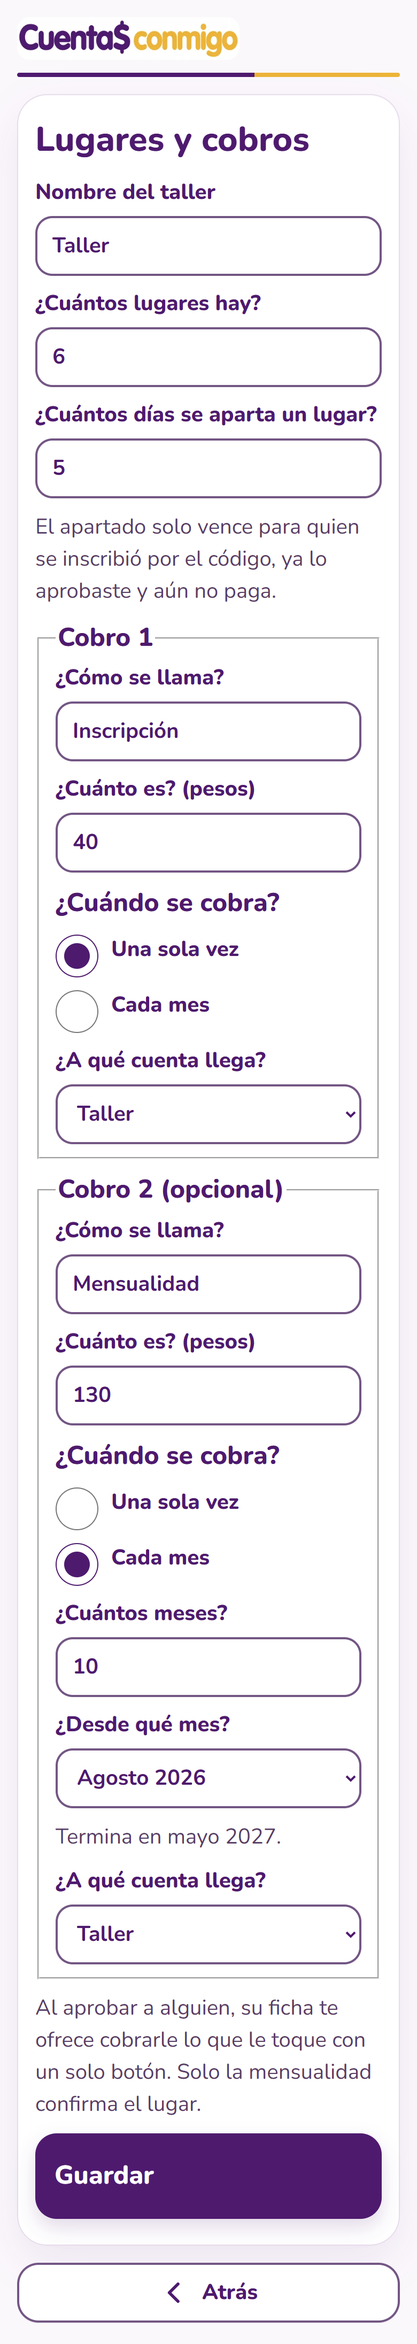
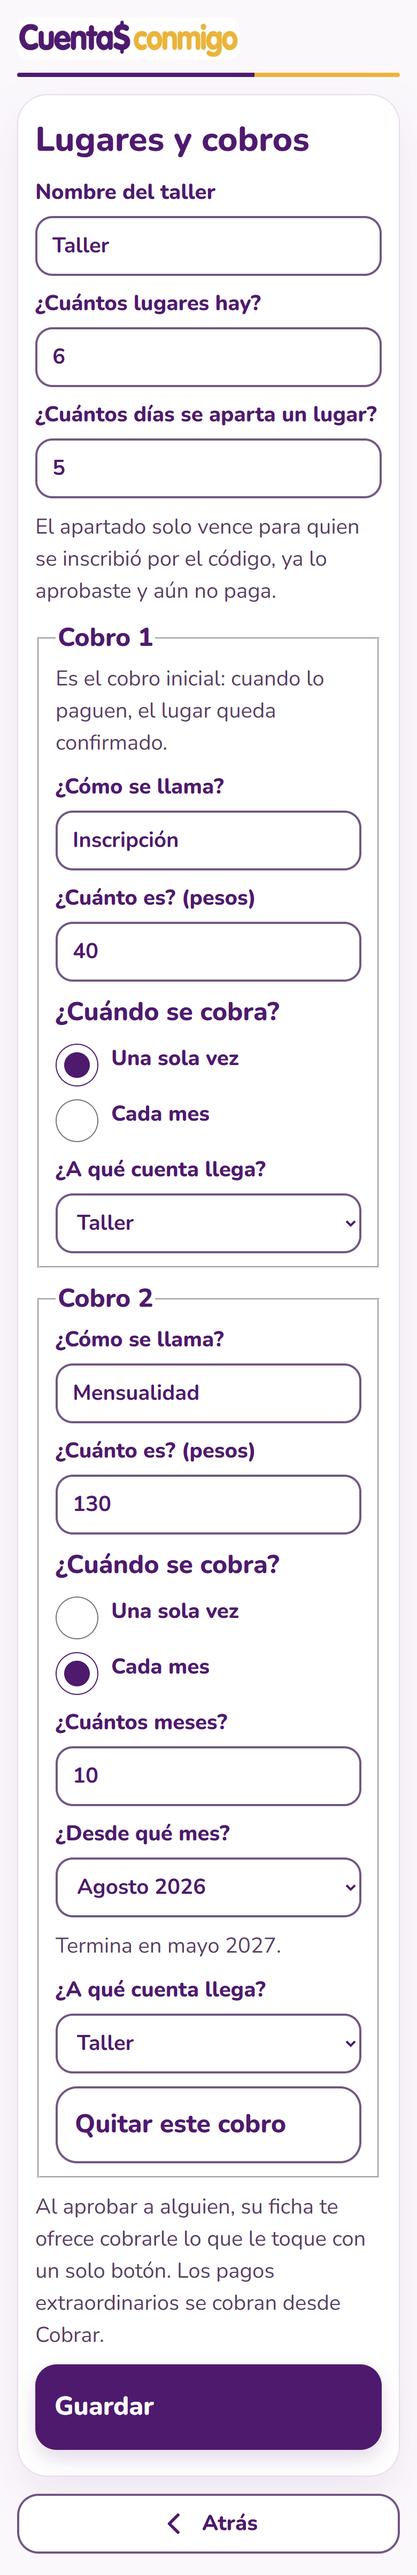
El cobro inicial confirma el lugar, cobro 2 con 'Añadir otro cobro' y cobros extraordinarios desde Cobrar

diff --git a/src/screens3.tsx b/src/screens3.tsx
@@ -108,7 +108,7 @@ export function SeatDetail({ project, people, charges, accounts, personId, busy,
   const due = (state === 'held' || state === 'confirmed' || state === 'overdue')
     ? duePlans(project.plans, person.id, charges, month).filter((d) => accounts.some((a) => a.id === d.plan.accountId)).slice(0, 2)
     : [];
-  const feeCharge = charges.find((c) => c.personId === person.id && c.month === month && c.confirmsPlace);
+  const feeCharge = charges.find((c) => c.personId === person.id && c.month === month);
   return (
     <section className="stack">
       <WhoLine name={person.name} person={person} />
@@ -129,7 +129,7 @@ export function SeatDetail({ project, people, charges, accounts, personId, busy,
           icon={<IcoPhone />}
           label={`Cobrarle ${money(d.plan.amount)}`}
           hint={d.plan.kind === 'ONCE' ? `${d.plan.concept} (una sola vez)` : `${d.plan.concept} de ${monthName(month).toLowerCase()}, mes ${d.nth} de ${d.total}`}
-          onClick={() => onCreateCharge(person.id, d.plan.concept, d.plan.amount, d.plan.accountId, d.plan.kind === 'MONTHLY')}
+          onClick={() => onCreateCharge(person.id, d.plan.concept, d.plan.amount, d.plan.accountId, d.confirms)}
         />
       ))}
       {feeCharge && !due.length ? (
@@ -214,14 +214,15 @@ function toSlot(p: Plan): Slot {
 export function PlacesSettings({ project, accounts, busy, formError, onSaveProject }: StageProps) {
   const usable = accounts.filter((a) => ready(a));
   const firstAccount = usable[0]?.id ?? '';
-  // Nothing saved yet: suggest the usual case (a one-time enrolment and a monthly fee for the school cycle).
+  // Nothing saved yet: suggest the usual first charge (a one-time enrolment). A second one is added on request.
   const initial: Slot[] = project?.plans.length
     ? [...project.plans.map(toSlot), emptySlot(firstAccount)].slice(0, MAX_PLANS)
     : [
         { kind: 'ONCE', concept: 'Inscripción', amount: '40', accountId: firstAccount, start: cycleStart(new Date()), months: '10' },
-        { kind: 'MONTHLY', concept: 'Mensualidad', amount: '130', accountId: firstAccount, start: cycleStart(new Date()), months: '10' },
+        emptySlot(firstAccount),
       ];
   const [slots, setSlots] = useState<Slot[]>(initial);
+  const [shown, setShown] = useState(project?.plans.length ? Math.max(1, project.plans.length) : 1);
   const [error, setError] = useState('');
   const set = (i: number, patch: Partial<Slot>) => setSlots(slots.map((s, j) => (j === i ? { ...s, ...patch } : s)));
   const base = cycleStart(new Date());
@@ -231,7 +232,7 @@ export function PlacesSettings({ project, accounts, busy, formError, onSaveProje
     e.preventDefault();
     const d = new FormData(e.currentTarget);
     const plans: Plan[] = [];
-    for (let i = 0; i < slots.length; i++) {
+    for (let i = 0; i < shown; i++) {
       const s = slots[i];
       const amount = parseAmount(s.amount);
       if (!(amount > 0)) continue; // an empty slot is simply not used
@@ -263,9 +264,10 @@ export function PlacesSettings({ project, accounts, busy, formError, onSaveProje
         <Field label="¿Cuántos días se aparta un lugar?"><input name="hold" required inputMode="numeric" defaultValue={String(project?.holdDays ?? 5)} /></Field>
         <p className="hint">El apartado solo vence para quien se inscribió por el código, ya lo aprobaste y aún no paga.</p>
 
-        {slots.map((s, i) => (
+        {slots.slice(0, shown).map((s, i) => (
           <fieldset key={i} className="stack plan">
-            <legend className="who-line">Cobro {i + 1}{i > 0 ? ' (opcional)' : ''}</legend>
+            <legend className="who-line">Cobro {i + 1}</legend>
+            {i === 0 ? <p className="hint">Es el cobro inicial: cuando lo paguen, el lugar queda confirmado.</p> : null}
             <Field label="¿Cómo se llama?"><input value={s.concept} onChange={(e) => set(i, { concept: e.target.value })} autoComplete="off" placeholder={s.kind === 'ONCE' ? 'Inscripción' : 'Mensualidad'} /></Field>
             <Field label="¿Cuánto es? (pesos)"><input value={s.amount} onChange={(e) => set(i, { amount: e.target.value })} inputMode="decimal" placeholder="Déjalo vacío si no lo usas" /></Field>
             <p className="who-line">¿Cuándo se cobra?</p>
@@ -288,9 +290,22 @@ export function PlacesSettings({ project, accounts, busy, formError, onSaveProje
                 {usable.map((a) => <option key={a.id} value={a.id}>{a.alias}</option>)}
               </select>
             </Field>
+            {i > 0 ? <Choice label="Quitar este cobro" onClick={() => { set(i, { amount: '' }); setShown(i); }} /> : null}
           </fieldset>
         ))}
-        <p className="hint">Al aprobar a alguien, su ficha te ofrece cobrarle lo que le toque con un solo botón. Solo la mensualidad confirma el lugar.</p>
+        {shown < MAX_PLANS ? (
+          <Choice
+            icon={<IcoCash />}
+            label="Añadir otro cobro"
+            hint="Por ejemplo, la mensualidad"
+            onClick={() => {
+              // Suggest the usual second charge: monthly for the school cycle.
+              if (!slots[shown].amount) set(shown, { kind: 'MONTHLY', concept: 'Mensualidad', amount: '130', months: '10', accountId: slots[shown].accountId || firstAccount });
+              setShown(shown + 1);
+            }}
+          />
+        ) : null}
+        <p className="hint">Al aprobar a alguien, su ficha te ofrece cobrarle lo que le toque con un solo botón. Los pagos extraordinarios se cobran desde Cobrar.</p>
         <Choice primary type="submit" label={busy ? busyLabel : 'Guardar'} />
       </form>
     </section>

diff --git a/src/screens.tsx b/src/screens.tsx
@@ -9,7 +9,7 @@ import { destinations, folioOf, payCardSvg, payText, type Dest } from './comprob
 import { PictureSend } from './Receipt';
 import { DangerZone, More, ReportView } from './screens2';
 import { PlacesHub, PlacesSettings, RegQr, SeatDetail, Seats } from './screens3';
-import type { Plan } from './plans';
+import { duePlans, type Plan } from './plans';
 import { canCharge, placesOn, toApprove, waitlisted } from './places';
 
 export type StageProps = {
@@ -220,13 +220,13 @@ function Who({ people, charges, onOpenPerson, onView, page }: StageProps & { pag
   );
 }
 
-function PersonCharges({ people, charges, onView, personId, page }: StageProps & { personId: string; page: number }) {
+function PersonCharges({ people, charges, accounts, project, onCreateCharge, onView, personId, page }: StageProps & { personId: string; page: number }) {
   const person = findPerson(people, personId);
   if (!person) return <Missing onHome={() => onView({ id: 'home' })} />;
   const month = thisMonth();
   const mine = charges.filter((c) => c.personId === personId && c.month === month);
   type Row = { key: string; node: ReactNode };
-  const rows: Row[] = mine.map((c) => ({
+  const chargeRow = (c: Chg): Row => ({
     key: c.id,
     node: (
       <button type="button" className="person" onClick={() => onView(chargeKind(c) === 'paid' ? { id: 'paid', chargeId: c.id } : { id: 'charge', chargeId: c.id })}>
@@ -235,11 +235,29 @@ function PersonCharges({ people, charges, onView, personId, page }: StageProps &
         <Status kind={chargeKind(c)}>{chargeWords(c)}</Status>
       </button>
     ),
-  }));
-  rows.push({
-    key: 'new',
-    node: <Choice icon={<IcoCash />} label="Crear otro cobro" hint="Un monto libre" onClick={() => onView({ id: 'new-charge', personId })} />,
   });
+  // Order: what is waiting for payment, what the project charges (set in its settings), an extraordinary one, then what is already paid.
+  const due = duePlans(project?.plans ?? [], personId, charges, month).filter((d) => accounts.some((x) => x.id === d.plan.accountId));
+  const rows: Row[] = [
+    ...mine.filter((c) => chargeKind(c) !== 'paid').map(chargeRow),
+    ...due.map((d): Row => ({
+      key: 'plan-' + d.plan.id,
+      node: (
+        <Choice
+          primary={!mine.some((c) => chargeKind(c) !== 'paid') && due[0] === d}
+          icon={<IcoCash />}
+          label={`Cobrar ${money(d.plan.amount)}`}
+          hint={d.plan.kind === 'ONCE' ? `${d.plan.concept} (una sola vez)` : `${d.plan.concept}, mes ${d.nth} de ${d.total}`}
+          onClick={() => onCreateCharge(personId, d.plan.concept, d.plan.amount, d.plan.accountId, d.confirms)}
+        />
+      ),
+    })),
+    {
+      key: 'extra',
+      node: <Choice icon={<IcoCash />} label="Cobro extraordinario" hint="Por ejemplo, una cooperación" onClick={() => onView({ id: 'new-charge', personId })} />,
+    },
+    ...mine.filter((c) => chargeKind(c) === 'paid').map(chargeRow),
+  ];
   const slice = pageOf(rows, page);
   return (
     <section className="stack">
@@ -511,7 +529,7 @@ function AddAccount({ busy, formError, onAddAccount }: StageProps) {
   );
 }
 
-function NewCharge({ people, accounts, personId, project, busy, formError, onCreateCharge, onView }: StageProps & { personId: string }) {
+function NewCharge({ people, accounts, personId, busy, formError, onCreateCharge, onView }: StageProps & { personId: string }) {
   const person = findPerson(people, personId);
   if (!person) return <Missing onHome={() => onView({ id: 'home' })} />;
   if (!accounts.length) {
@@ -528,21 +546,19 @@ function NewCharge({ people, accounts, personId, project, busy, formError, onCre
     e.preventDefault();
     const data = new FormData(e.currentTarget);
     const accountId = only ? only.id : String(data.get('account') || '');
-    onCreateCharge(person.id, String(data.get('concept') || ''), parseAmount(String(data.get('amount') || '')), accountId, data.get('monthly') === 'on');
+    onCreateCharge(person.id, String(data.get('concept') || ''), parseAmount(String(data.get('amount') || '')), accountId, false); // an extraordinary charge never confirms a place
   };
   return (
     <section className="stack">
       <WhoLine name={person.name} person={person} />
-      <h1>Nuevo cobro</h1>
+      <h1>Cobro extraordinario</h1>
+      <p className="lead">Para algo que no es el cobro de siempre, por ejemplo una cooperación para un evento.</p>
       <form className="stack" onSubmit={submit}>
         {formError ? <Alert>{formError}</Alert> : null}
-        <Field label="¿De qué es el cobro?"><input name="concept" placeholder="Cuota" autoComplete="off" /></Field>
+        <Field label="¿Para qué es?"><input name="concept" placeholder="Cooperación para el cumpleaños" autoComplete="off" required /></Field>
         <Field label="¿Cuánto?">
           <input name="amount" required inputMode="decimal" autoComplete="off" placeholder="0.00" />
         </Field>
-        {placesOn(project) ? (
-          <label className="check"><input type="checkbox" name="monthly" defaultChecked /><span>Es la mensualidad (confirma el lugar)</span></label>
-        ) : null}
         {only ? <p className="lead">El dinero llega a {only.alias}.</p> : (
           <Field label="¿A qué cuenta llega?">
             <select name="account" required defaultValue="">

diff --git a/src/plans.ts b/src/plans.ts
@@ -58,6 +58,8 @@ export function legacyPlan(amount: number | null | undefined, concept: string | 
 
 export interface Due {
   plan: Plan;
+  /** The first plan is the initial charge: paying it confirms the place. */
+  confirms: boolean;
   /** For recurring plans: which month of the cycle this is ("4 de 10"). */
   nth?: number;
   total?: number;
@@ -78,11 +80,12 @@ export function duePlans(plans: Plan[], personId: string, charges: Chg[], month:
   const mine = charges.filter((c) => c.personId === personId);
   const out: Due[] = [];
   for (const plan of plans) {
+    const confirms = plans[0]?.id === plan.id;
     if (plan.kind === 'ONCE') {
-      if (!mine.some((c) => c.concept === plan.concept)) out.push({ plan });
+      if (!mine.some((c) => c.concept === plan.concept)) out.push({ plan, confirms });
     } else {
       const nth = cycleMonth(plan, month);
-      if (nth && !mine.some((c) => c.concept === plan.concept && c.month === month)) out.push({ plan, nth, total: plan.months });
+      if (nth && !mine.some((c) => c.concept === plan.concept && c.month === month)) out.push({ plan, confirms, nth, total: plan.months });
     }
   }
   return out;

diff --git a/src/App.tsx b/src/App.tsx
@@ -214,15 +214,8 @@ export default function App({ signOut }: { signOut?: () => void }) {
   }
 
   function openPerson(personId: string) {
-    const month = thisMonth();
-    const mine = charges.filter((c) => c.personId === personId && c.month === month);
-    if (mine.length === 0) go({ id: 'new-charge', personId });
-    else if (mine.length === 1) {
-      const c = mine[0];
-      if (chargeKind(c) === 'paid') go({ id: 'paid', chargeId: c.id });
-      else if (chargeKind(c) === 'wait') go({ id: 'wait', chargeId: c.id });
-      else go({ id: 'charge', chargeId: c.id });
-    } else go({ id: 'person', personId, page: 0 });
+    // Always show the person's page: what the project charges, an extraordinary charge, and what is waiting.
+    go({ id: 'person', personId, page: 0 });
   }
 
   return (

diff --git a/tests/logic.test.ts b/tests/logic.test.ts
@@ -187,3 +187,13 @@ test('plans: a one-time enrolment and a monthly fee for the 10 months of the sch
   assert.equal(legacyPlan(130, null, 'x', new Date(2026, 10, 1))[0].months, 10);
   assert.deepEqual(legacyPlan(0, null, 'x', new Date()), []);
 });
+
+test('plans: only the first (initial) charge confirms the place', async () => {
+  const { duePlans } = await import('../src/plans.ts');
+  const plans = [
+    { id: 'a', kind: 'ONCE' as const, concept: 'Inscripción', amount: 40, accountId: 'x' },
+    { id: 'b', kind: 'MONTHLY' as const, concept: 'Mensualidad', amount: 130, accountId: 'x', start: '2026-08', months: 10 },
+  ];
+  const due = duePlans(plans, 'p', [], '2026-11');
+  assert.deepEqual(due.map((d) => [d.plan.id, d.confirms]), [['a', true], ['b', false]]);
+});

diff --git a/README.md b/README.md
@@ -79,7 +79,7 @@ El inicio de un proyecto es deliberadamente corto: el dato de **cuánto se ha co
 ## Cómo funciona un cobro
 
 1. Quien cobra registra la **cuenta que recibe** (nombre legal del titular y CLABE). Pey la activa con Banxico en hasta 5 días hábiles; mientras tanto solo se puede cobrar en efectivo.
-2. Elige a la persona (se reconoce por su foto o dibujo) y crea el cobro (monto libre y concepto).
+2. Elige a la persona (se reconoce por su foto o dibujo). Su página ofrece lo que ya está esperando pago, **los cobros que configuraste** (por ejemplo "Cobrar $130, Mensualidad, mes 4 de 10") y **"Cobro extraordinario"** para algo fuera de lo normal, como la cooperación para el cumpleaños de una alumna: nombre y monto libres, y nunca confirma lugar.
 3. Cobra por **código QR de CoDi** (la vía principal), por **solicitud CoDi** al celular o en **efectivo**.
 4. Si quien paga necesita ayuda, **"Mandar el código por WhatsApp"** arma una imagen con el nombre del taller, quién paga, el monto, el QR grande y tres pasos. Se comparte desde el menú del celular. El mensaje que acompaña dice a quién está ayudando, cuánto y de qué, y pide que le pregunte a esa persona antes de pagar si tiene dudas.
 5. Cuando la persona paga, Pey avisa al servidor con un mensaje firmado. El servidor verifica la firma, marca el cobro como **Pagado** una sola vez y la pantalla se actualiza sola. Si un aviso se pierde, **"Revisar si ya pagó"** consulta a Pey.
@@ -91,12 +91,12 @@ Cada cobro manda a Pey el `bankAccountId` de su cuenta, así una sola llave de P
 
 ## Lugares e inscripción por QR
 
-1. En **Lugares → Ajustes** quien cobra pone el nombre del taller, cuántos lugares hay, cuántos días se aparta uno (5 por defecto) y los **cobros** del proyecto (hasta 2). Cada cobro lleva nombre, monto, cuenta que recibe y se marca como **una sola vez** o **cada mes**; si es mensual se indica cuántos meses dura y desde qué mes. Ejemplo del caso de estudio: **Inscripción $40, una sola vez**, y **Mensualidad $130, cada mes, 10 meses desde agosto** (termina en mayo, el fin del ciclo escolar).
+1. En **Lugares → Ajustes** quien cobra pone el nombre del taller, cuántos lugares hay, cuántos días se aparta uno (5 por defecto) y los **cobros** del proyecto (hasta 2). El **Cobro 1** es el inicial (al pagarlo, el lugar queda confirmado) y un botón **"Añadir otro cobro"** agrega el segundo. Cada cobro lleva nombre, monto, cuenta que recibe y se marca como **una sola vez** o **cada mes**; si es mensual se indica cuántos meses dura y desde qué mes. Ejemplo del caso de estudio: **Cobro 1: Inscripción $40, una sola vez**, y **Cobro 2: Mensualidad $130, cada mes, 10 meses desde agosto** (termina en mayo, el fin del ciclo escolar).
 2. **Código para inscribir** muestra un QR que abre una página pública (sin cuenta) en 4 pasos: nombre, **imagen que la identifica**, WhatsApp propio y de **una** persona que le ayuda a pagar (con su **nombre y qué es suya**, por ejemplo "mi hija"; un botón permite agregar hasta 3), y revisar. En el último paso la persona **elige a quién quiere que le mandemos su código de pago y su comprobante** entre las que registró, y da su consentimiento.
 3. **Imagen que la identifica:** un **dibujo** de un banco de 28 (con su nombre escrito, y nunca uno que ya tenga otra persona con lugar) o **su foto**, con casilla de autorización obligatoria. La foto se reduce a unos 320 px y se guarda en su registro.
 4. La inscripción **solo registra**. No se manda ningún cobro ni mensaje hasta que quien cobra **apruebe**. Si el taller está lleno, la persona queda en lista de espera.
 5. Tras aprobar, la ficha ofrece un botón por cada cobro que le toca: **"Cobrarle $40"** (la inscripción, una sola vez, y deja de ofrecerse cuando ya se cobró) y **"Cobrarle $130"** (la mensualidad, "mes 4 de 10"). Fuera del ciclo, por ejemplo antes de agosto o después de mayo, la mensualidad no se ofrece.
-6. Solo la mensualidad confirma el lugar. El cobro anual del DIF no.
+6. Solo el **cobro inicial** (el Cobro 1, normalmente la inscripción) confirma el lugar. La mensualidad, otros cobros y los extraordinarios no.
 7. El apartado vence **solo** para quien se inscribió por QR, ya fue aprobado y todavía no paga. Quien cobra decide dejarlo más días o darlo de baja. Quien ya pagó, o fue agregado a mano, no vence.
 8. El servidor limita los intentos por dirección y por código. Cada proyecto tiene sus propios lugares y dibujos. Si dos personas se inscriben a la vez por el último lugar, o eligen el mismo dibujo, gana quien llegó primero (se ordena por hora de llegada después de guardar, no con una escritura condicional).
 
